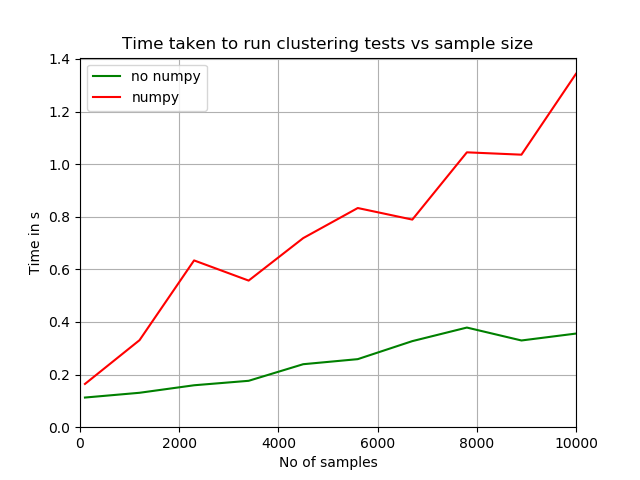
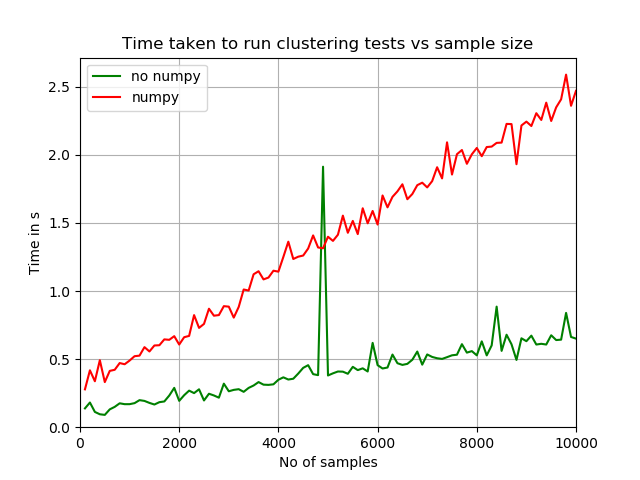
removed previous changes, final code for submitty

diff --git a/clustering_numpy.py b/clustering_numpy.py
@@ -40,7 +40,7 @@ if __name__ == "__main__":
     parser = ArgumentParser(description='clustering_numpy.py')
     parser.add_argument('samplesfile', type=str, 
                         help='Please give file path to samples.csv')
-    parser.add_argument('--iters', type=int,
+    parser.add_argument('--iters', default=10, type=int,
                         help='Please give number of iterations')
     arguments = parser.parse_args()
     samplesfile=arguments.samplesfile

diff --git a/clustering.py b/clustering.py
@@ -39,7 +39,7 @@ if __name__ == "__main__":
     parser = ArgumentParser(description='clustering.py')
     parser.add_argument('samplesfile', type=str,
                         help='Please give file path to samples.csv')
-    parser.add_argument('--iters', type=int,
+    parser.add_argument('--iters', default=10, type=int,
                         help='Please give number of iterations')
     arguments = parser.parse_args()
     samplesfile=arguments.samplesfile

diff --git a/performance.py b/performance.py
@@ -24,7 +24,7 @@ class Timer:
         self.end = time.time()
         self.interval = self.end - self.start
         
-sample_sizes= np.linspace(100,10000,10)
+sample_sizes= np.linspace(100,10000,20)
 time_cluster = []
 time_cluster_num = []
 
